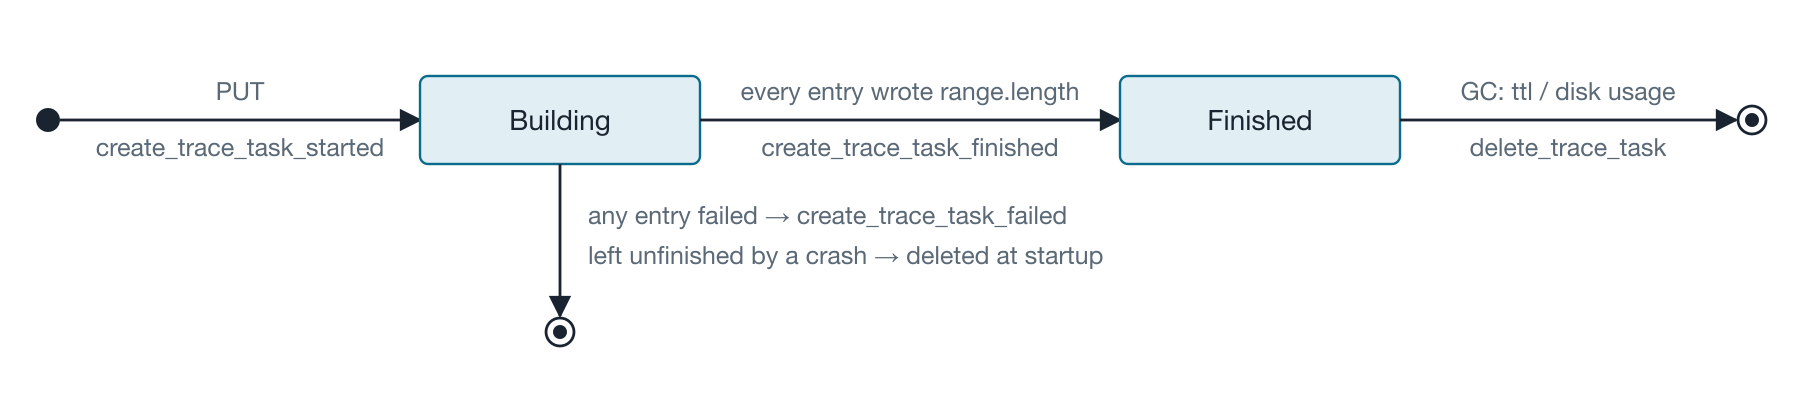
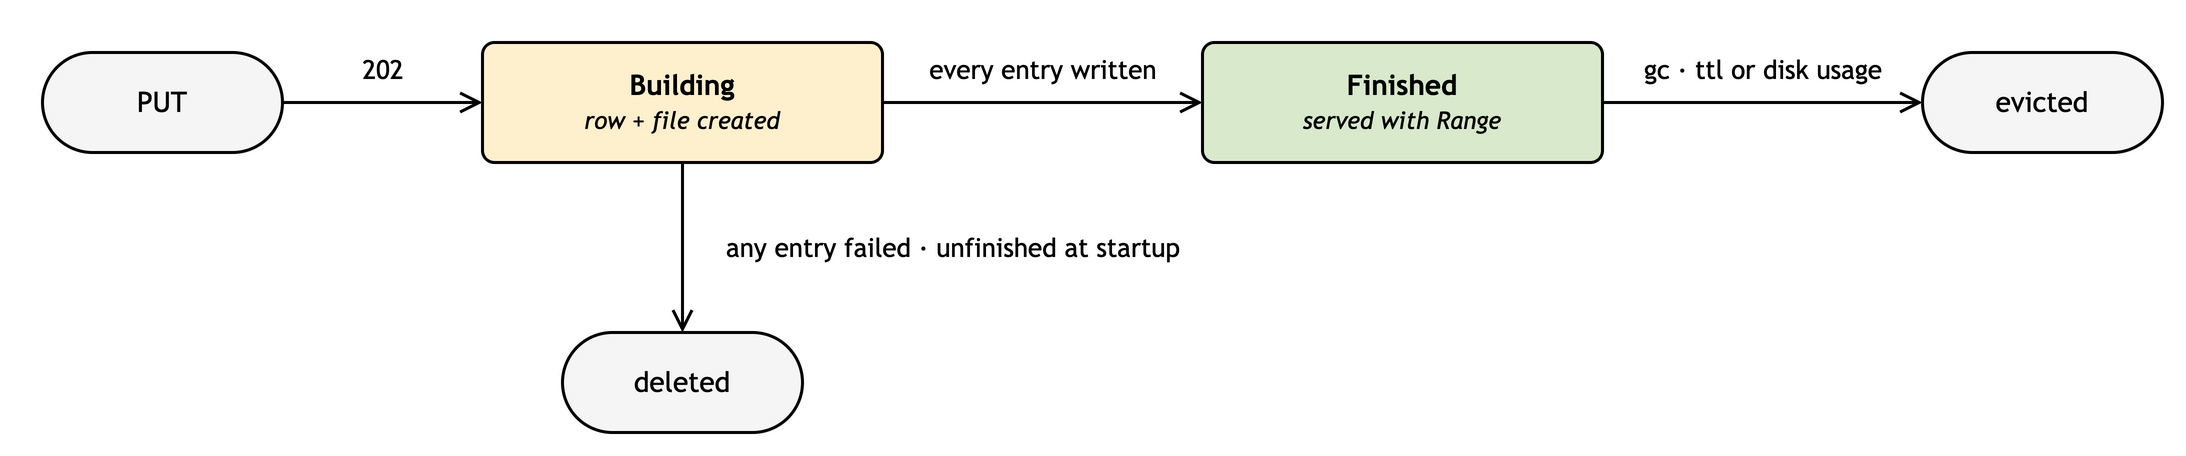
docs(trace-task): store decompressed chunk groups and group upload by blob
Restructure the TraceTask design so dfdaemon decodes each chunk group at
build time (zstd frame or LZ4 block, or plain copy) and writes the
uncompressed bytes into the trace file. Nydus then fills its blob cache
directly from the stream at replay without decompressing.

- Upload body is now grouped by source blob, carrying `url`, request
  `header` and `compressor`, with per-group `compressed_offset`,
  `compressed_size`, `uncompressed_size` and `is_uncompressed` mirroring
  nydus `BlobMetadataChunkGroupExtent`.
- Entry table shrinks to 8 bytes per entry (source blob and chunk group
  index only); offsets and lengths are derived from the source blob.meta.
- Build requests forward the blob's headers, so credentialed origins no
  longer fail the build; length is checked after decode, CRC32C is left
  to nydus at replay.
- Extend validation rules (compressor, size consistency) and update the
  example sizes accordingly.
- Add overview and build-flow diagrams; refresh content-format, sequence
  and state diagrams.

diff --git a/systems-analysis/trace-task/trace-task.md b/systems-analysis/trace-task/trace-task.md
@@ -4,9 +4,10 @@
 
 This design document proposes a new task type for the Dragonfly client called TraceTask.
 nydusd records the chunk groups it reads on demand during one run and uploads the list to dfdaemon.
-dfdaemon fetches the bytes it does not have locally, assembles them in access order into a single
-local file, and serves it back on the next mount as one HTTP stream with `Range` support.
-A cold start that used to issue hundreds or thousands of small range requests issues one.
+dfdaemon fetches the bytes it does not have locally, decompresses each chunk group and assembles them in
+access order into one local file. On the next mount nydusd downloads that file as one HTTP stream with
+`Range` support and fills its blob cache from it. A cold start that used to issue hundreds or thousands of
+small range requests issues one.
 
 ## Goals
 
@@ -16,6 +17,12 @@ A cold start that used to issue hundreds or thousands of small range requests is
 4. Provide client-side replication (two replicas, read fallback) in `dragonfly-sdk` for Rust and Go.
 
 ## Architecture
+
+![Trace Task Overview](./overview.png)
+
+The first mount records and builds; the next mount replays. dfdaemon keeps the trace task as a plain file next
+to the tasks it was built from and never announces it to the scheduler. Replication is the SDK's job: it uploads
+to two dfdaemons chosen by hash ring and falls back between them on `404`.
 
 ![Trace Task Workflow](./sequence-diagram.png)
 
@@ -86,36 +93,65 @@ PUT /v1/trace-tasks/3f0c…e9a1 HTTP/1.1
 Content-Type: application/json
 X-Dragonfly-Nydusd-ID: 10.0.0.8-node-1-7c1e…9f2b
 
-{"chunk_groups":[
-  {"blob_index":1,"chunk_group_index":0,
+{"blobs":[
+  {"source_blob_index":1,
    "url":"https://registry.example.com/v2/app/blobs/sha256:aaaa…",
-   "range":{"start":0,"length":1048576}},
-  {"blob_index":1,"chunk_group_index":5,
-   "url":"https://registry.example.com/v2/app/blobs/sha256:aaaa…",
-   "range":{"start":5242880,"length":262144}},
-  {"blob_index":2,"chunk_group_index":0,
+   "header":{"Authorization":"Bearer …"},
+   "compressor":"zstd",
+   "chunk_groups":[
+     {"source_chunk_group_index":0,
+      "compressed_offset":0,"compressed_size":1048576,
+      "uncompressed_size":2097152,"is_uncompressed":false},
+     {"source_chunk_group_index":5,
+      "compressed_offset":5242880,"compressed_size":262144,
+      "uncompressed_size":524288,"is_uncompressed":false}
+   ]},
+  {"source_blob_index":2,
    "url":"https://registry.example.com/v2/app/blobs/sha256:bbbb…",
-   "range":{"start":0,"length":65536}}
+   "header":{"Authorization":"Bearer …"},
+   "compressor":"zstd",
+   "chunk_groups":[
+     {"source_chunk_group_index":0,
+      "compressed_offset":0,"compressed_size":131072,
+      "uncompressed_size":131072,"is_uncompressed":true}
+   ]}
 ]}
 ```
 
 ```rust
 pub struct UploadTraceTaskRequest {
+    pub blobs: Vec<UploadTraceTaskBlob>,
+}
+
+pub struct UploadTraceTaskBlob {
+    pub source_blob_index: u16,
+    pub url: String,
+    pub header: HashMap<String, String>,
+    pub compressor: TraceTaskCompressor,
     pub chunk_groups: Vec<UploadTraceTaskChunkGroup>,
 }
 
 pub struct UploadTraceTaskChunkGroup {
-    pub blob_index: u32,
-    pub chunk_group_index: u32,
-    pub url: String,
-    pub range: Range,
+    pub source_chunk_group_index: u32,
+    pub compressed_offset: u64,
+    pub compressed_size: u32,
+    pub uncompressed_size: u32,
+    pub is_uncompressed: bool,
 }
+
+/// The chunk group compressor, the same set and codes as nydus `BlobMetadataCompressor`.
+pub enum TraceTaskCompressor { None, Zstd, Lz4Block }   // "none" | "zstd" | "lz4"
 ```
 
-Each item is one nydus chunk group. `blob_index` and `chunk_group_index` are the same pair nydus records
-in its own `/trace` document and are copied into the entry table for replay. `url` and `range` locate the
-compressed bytes of the group in the source blob; dfdaemon uses them only to download what is missing locally
-and does not persist them.
+Each blob object is one source blob: `url` and `header` are the request dfdaemon uses to download it,
+`compressor` is the blob's chunk group compressor, and `chunk_groups` lists the groups read from it.
+Every chunk group field is the same-named accessor of nydus `BlobMetadataChunkGroupExtent`:
+`compressed_offset` and `compressed_size` locate the group's bytes in the blob, `is_uncompressed` says the
+group is stored plain (nydus skips compression that would not shrink a group), and `uncompressed_size` is
+required because an LZ4 block carries no frame header. `source_blob_index` and `source_chunk_group_index` are
+copied into the entry table in body order, blob by blob. dfdaemon decodes a compressed group (one zstd frame
+or one LZ4 block) or copies a plain one, checks the length, and stores the decoded bytes. It does not verify
+the CRC32C: nydus verifies every group against the source blob.meta when it fills the cache.
 
 The upload is idempotent on `id`: the same id is built once, and a repeated `PUT` returns the current state.
 A later `PUT` for the same id with different chunk groups is ignored; the first upload wins until the task is evicted.
@@ -124,8 +160,8 @@ A later `PUT` for the same id with different chunk groups is ignored; the first 
 | ------ | ------------------------------------------------------------------------------------------------------------- |
 | 202    | Created, or already building                                                                                  |
 | 200    | Already finished                                                                                              |
-| 400    | Invalid id or `X-Dragonfly-Nydusd-ID`; empty `chunk_groups`; url scheme not http/https; `range.length == 0`; malformed JSON |
-| 413    | Body larger than 4 MiB or more than 8192 chunk groups                                                         |
+| 400    | Invalid id or `X-Dragonfly-Nydusd-ID`; empty `blobs` or `chunk_groups`; url scheme not http/https; `compressed_size == 0`; `uncompressed_size == 0`; `is_uncompressed` with `compressed_size != uncompressed_size`; unknown `compressor`; malformed JSON |
+| 413    | Body larger than 4 MiB or more than 8192 chunk groups in total                                                |
 | 507    | `has_enough_space(content_length)` is false                                                                   |
 
 #### GET /v1/trace-tasks/{id}
@@ -133,13 +169,13 @@ A later `PUT` for the same id with different chunk groups is ignored; the first 
 ```http
 GET /v1/trace-tasks/3f0c…e9a1 HTTP/1.1
 X-Dragonfly-Nydusd-ID: 10.0.0.8-node-1-7c1e…9f2b
-Range: bytes=0-87
+Range: bytes=0-39
 
 HTTP/1.1 206 Partial Content
 Content-Type: application/octet-stream
 Accept-Ranges: bytes
-Content-Range: bytes 0-87/1376344
-Content-Length: 88
+Content-Range: bytes 0-39/2752552
+Content-Length: 40
 X-Dragonfly-Server-IP: 10.0.0.12
 ```
 
@@ -157,21 +193,23 @@ A read failure in the middle of the stream closes the connection; there is no pa
 ### Content Format
 
 The file follows the nydus blob metadata style: a fixed-size header, a fixed-size entry table, then raw data.
-All integers are little-endian. The entry table is placed before the data, because it is fully known at
-upload time and a reader can consume the stream in one pass.
+All integers are little-endian. The data region holds the decompressed bytes of every chunk group, back to back
+in table order. An entry names only the source group; its length is the `uncompressed_size` in the source
+blob.meta and its offset is the sum of the lengths before it, so the table carries neither.
 
 ![Trace Task Content Format](./content-format.png)
 
-For the three chunk groups above: `data_offset` is 88, the entry offsets are 0, 1048576 and 1310720,
-and `content_length` is 1376344. A `Range: bytes=0-87` request returns the header and the entry table.
+For the three chunk groups above: `data_offset` is 40, the entries start at 0, 2097152 and 2621440 in the
+data region, and `content_length` is 2752552. A `Range: bytes=0-39` request returns the header and the entry table.
 
-The file is a pure function of `chunk_groups`, so the two replicas are byte-identical. Entries carry no
-digest: the source pieces were verified when they entered the local storage, and nydus verifies every
-chunk group with CRC32C when it decodes it.
+The file is a pure function of the request body, so the two replicas are byte-identical. At replay nydus
+verifies and places each group with the source blob's own blob.meta (`uncompressed_size`,
+`uncompressed_crc32`, chunk lengths, `logical_block_offset`), which it loads at mount for on-demand reads
+anyway; nothing is decompressed on the replay path.
 
 ```rust
 pub const TRACE_TASK_HEADER_SIZE: usize = 16;
-pub const TRACE_TASK_ENTRY_SIZE: usize = 24;
+pub const TRACE_TASK_ENTRY_SIZE: usize = 8;
 
 pub struct TraceTaskHeader {
     pub entry_count: u32,
@@ -180,10 +218,9 @@ pub struct TraceTaskHeader {
 }
 
 pub struct TraceTaskEntry {
-    pub blob_index: u32,
-    pub chunk_group_index: u32,
-    pub offset: u64,
-    pub length: u64,
+    pub source_chunk_group_index: u32,
+    pub source_blob_index: u16,
+    pub reserved: u16,
 }
 ```
 
@@ -282,7 +319,7 @@ async fn build(id, chunk_groups, dynconfig, remote_ip);
 
 #### Upload
 
-1. Validate the request, encode the header and the entry table, compute `content_length`.
+1. Validate the request, encode the header and the entry table, `content_length = data_offset + Σ uncompressed_size`.
 2. Take the `create` lock and `get_trace_task(id)`: finished returns `Exists`; building returns `Accepted`
    without a second build.
 3. `has_enough_space(content_length)`, `create_trace_task_started`, release the lock.
@@ -296,29 +333,33 @@ proxy accepts requests, so no timeout is needed and two builds never write the s
 
 #### Build
 
+![Trace Task Build](./build-flow.png)
+
 1. `write_trace_task(id, 0, data_offset, header || entry table)`.
 2. Build one `DownloadTaskRequest` per chunk group with the same fields as a proxied `GET`:
 
-   | Field            | Value                                                   |
-   | ---------------- | ------------------------------------------------------- |
-   | `range`          | `Some(range)`                                           |
-   | `request_header` | empty                                                   |
-   | `rule`           | `find_matching_rule` match, otherwise `Rule::default()` |
-   | `prefetch`       | `false`                                                 |
-   | `priority`       | `header::get_priority` on the `PUT` headers             |
+   | Field            | Value                                                       |
+   | ---------------- | ----------------------------------------------------------- |
+   | `url`            | the blob's `url`                                            |
+   | `range`          | `Range { start: compressed_offset, length: compressed_size }` |
+   | `request_header` | the blob's `header` without `Host` and `Range`              |
+   | `rule`           | `find_matching_rule` match, otherwise `Rule::default()`     |
+   | `prefetch`       | `false`                                                     |
+   | `priority`       | `header::get_priority` on the `PUT` headers                 |
 
    The task id is derived by `task::download` with the existing rules, so it matches the task that was
    written when nydusd read the range through the proxy, and local pieces are found without a scheduler
-   round trip. Because `request_header` is empty, a chunk group that is not local and whose origin requires
-   credentials fails the build.
+   round trip.
 3. `stream::iter(requests).map(task::download).buffered(concurrent_piece_count)`: up to
    `download.concurrent_piece_count` sessions are opened concurrently while the output stays in order.
    `Task::download` serves finished local pieces first and fetches the rest from peers or the origin.
 4. Consume each session with `write_pieces_in_order(task, out_stream, started, task_id, sink)`, extracted
-   from the ordered piece loop in `proxy_via_dfdaemon`. The sink is
-   `write_trace_task(id, data_offset + offset, len, reader)`.
-5. Verify that every chunk group wrote exactly `range.length` bytes. Any failure calls
-   `create_trace_task_failed`, which deletes the row and the file; success calls `create_trace_task_finished`.
+   from the ordered piece loop in `proxy_via_dfdaemon`. The sink collects the group's compressed bytes.
+5. Unless `is_uncompressed`, decode the group with the blob's `compressor` (`zstd::decode_all`, or
+   `lz4_flex::block::decompress` with `uncompressed_size`); the result must be `uncompressed_size` bytes or
+   the offsets that follow are wrong. `write_trace_task(id, data_offset + Σ previous uncompressed_size,
+   uncompressed_size, bytes)`. No checksum is computed; nydus verifies at replay. Any failure
+   calls `create_trace_task_failed`, which deletes the row and the file; success calls `create_trace_task_finished`.
 
 #### Download
 
@@ -345,6 +386,8 @@ const MAX_BODY_LENGTH: usize = 4 * 1024 * 1024;
 ```
 
 The body is read through `http_body_util::Limited` so oversized uploads are rejected before parsing.
+Decoding uses the `zstd` and `lz4_flex` crates, the same ones `nydus-storage` encodes with; `zstd-sys` is
+already linked through `librocksdb-sys`.
 `X-Dragonfly-Nydusd-ID` is added to `proxy/header.rs` next to the other `X-Dragonfly-*` headers and is
 recorded as a span field; it is not a metrics label.
 
@@ -370,7 +413,7 @@ recorded as a span field; it is not a metrics label.
 pub struct PutTraceTaskRequest {
     pub id: String,
     pub nydusd_id: String,
-    pub chunk_groups: Vec<UploadTraceTaskChunkGroup>,
+    pub blobs: Vec<UploadTraceTaskBlob>,
 }
 
 pub struct GetTraceTaskRequest {
@@ -400,11 +443,12 @@ consistency vectors for the id and the codec.
 
 ### Nydus
 
-1. After mount, record `(blob_index, chunk_group_index, url, range)` for every chunk group read on demand,
-   in first-access order.
+1. After mount, record every chunk group read on demand in first-access order, grouped by source blob with
+   the blob's `url`, request `header` and `compressor`.
 2. Call `put_trace_task` once, when no on-demand read has happened for 10 seconds or when 5 minutes have
    elapsed since mount, whichever comes first.
-3. On the next mount, `GET` the header and the entry table. Skip the groups already present in the blob
-   cache, fetch the rest with as few `Range` requests as possible or stream the whole file, decode and
-   CRC32C-verify each group, write it into the source blob cache and mark it ready. A `404` or a short read
-   falls back to on-demand reads.
+3. On the next mount, `GET` the header and the entry table, and compute each entry's offset and length from
+   the source blob.meta. Skip the groups already present in the blob cache, fetch the rest with as few `Range`
+   requests as possible or stream the whole file. Hand each group to `fill_chunk_group_from_redirect`, which
+   verifies it (size, CRC32C, digest) against the source blob.meta, writes it into the source blob cache and
+   marks it ready; the bytes are already decoded. A `404` or a short read falls back to on-demand reads.
